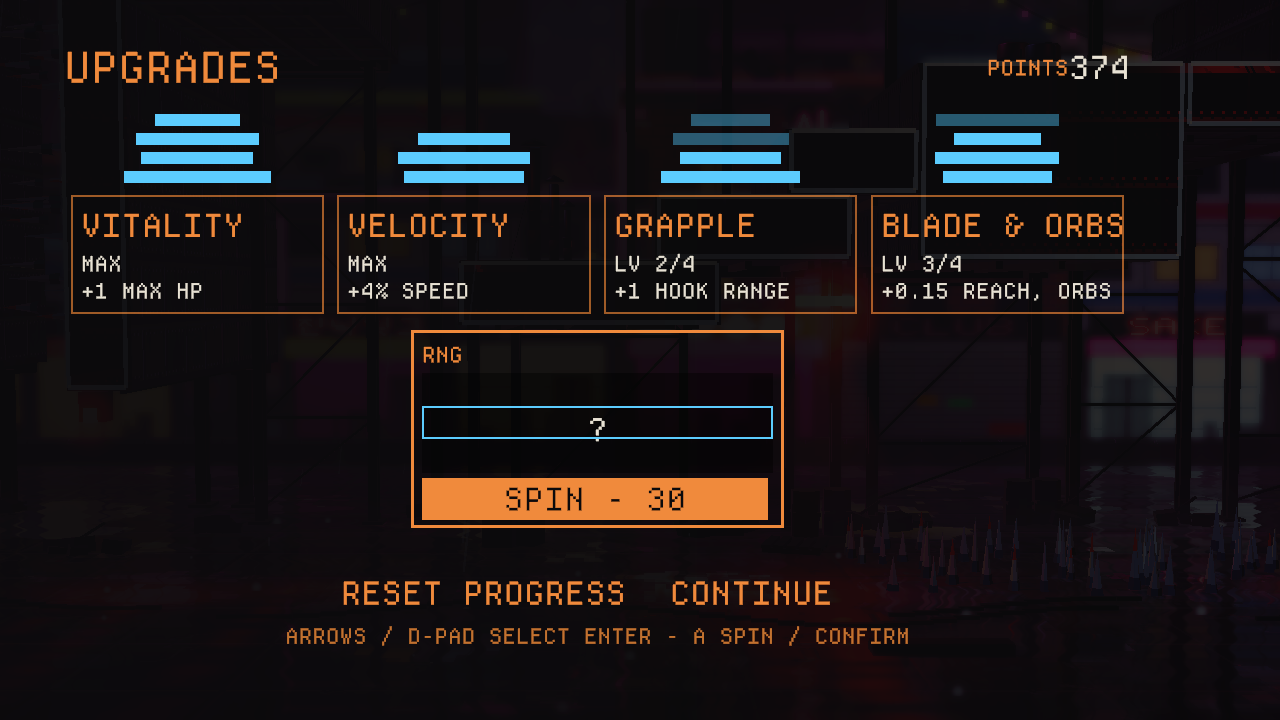
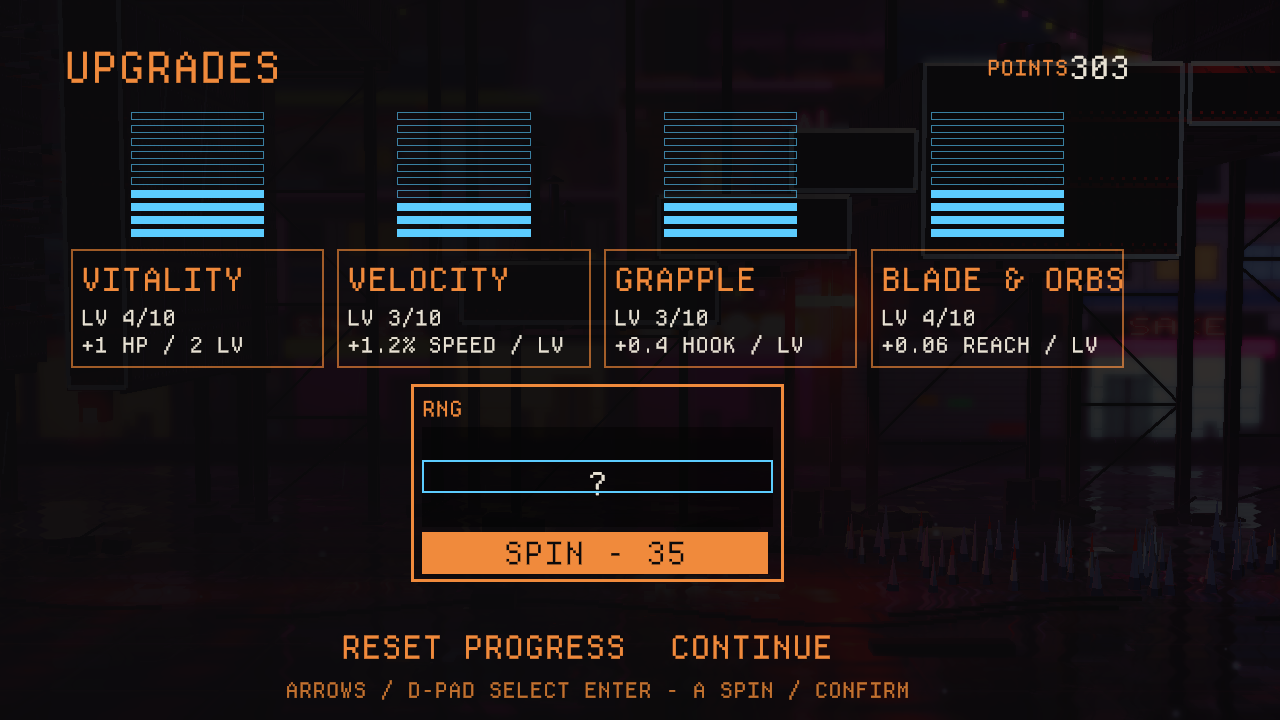
Upgrades: 10 levels each, clean uniform bars
- Every upgrade has 10 levels; per-level effects scaled so the maxed totals stay
  about the same (+5 HP at one per 2 levels, +12% speed, +4 hook, +0.6 reach);
  spin price grows x1.08.
- Level bars all the same size: owned = solid neon, not owned = thin outline.

diff --git a/Assets/Scripts/Game/UpgradeScreen.cs b/Assets/Scripts/Game/UpgradeScreen.cs
@@ -36,7 +36,7 @@ namespace Redline.Game
         private static readonly Color Bone = UiTheme.Bone;
         private static readonly Color Danger = MenuKit.Danger;
         private static readonly Color Neon = new Color(0.36f, 0.8f, 1f);
-        private static readonly Color NeonOff = new Color(0.36f, 0.8f, 1f, 0.16f);
+        private static readonly Color NeonOff = new Color(0.36f, 0.8f, 1f, 0.35f);
 
         private const int SpinIndex = 0;
         private const int ResetIndex = 1;
@@ -352,7 +352,10 @@ namespace Redline.Game
                 {
                     bool on = b < level;
                     bool fresh = wonCol && b == level - 1;
-                    bars[b].style.backgroundColor = fresh ? (pulse ? Color.white : Neon) : on ? Neon : NeonOff;
+                    // owned = solid neon bar, not owned = an empty outline (reads at a glance)
+                    var col = fresh ? (pulse ? Color.white : Neon) : Neon;
+                    bars[b].style.backgroundColor = on ? col : Color.clear;
+                    MenuKit.Border(bars[b], 2f, on ? col : NeonOff);
                 }
                 MenuKit.Border(_colBox[i], 3f, wonCol ? (pulse ? Color.white : Neon) : UiTheme.Faint);
             }
@@ -363,10 +366,10 @@ namespace Redline.Game
             var c = _store.Config;
             switch (kind)
             {
-                case UpgradeKind.MaxHp: return "+" + c.maxHpPerLevel + " MAX HP";
-                case UpgradeKind.Speed: return "+" + Pct(c.speedMultiplierPerLevel) + " SPEED";
-                case UpgradeKind.Hook: return "+" + Num(c.hookRangePerLevel) + " HOOK RANGE";
-                case UpgradeKind.SwordAndOrbs: return "+" + Num(c.attackRangePerLevel) + " REACH, ORBS";
+                case UpgradeKind.MaxHp: return "+" + c.maxHpPerLevel + " HP / " + Mathf.Max(1, c.maxHpLevelsPerHp) + " LV";
+                case UpgradeKind.Speed: return "+" + (c.speedMultiplierPerLevel * 100f).ToString("0.#", CultureInfo.InvariantCulture) + "% SPEED / LV";
+                case UpgradeKind.Hook: return "+" + Num(c.hookRangePerLevel) + " HOOK / LV";
+                case UpgradeKind.SwordAndOrbs: return "+" + Num(c.attackRangePerLevel) + " REACH / LV";
                 default: return "";
             }
         }
@@ -415,7 +418,6 @@ namespace Redline.Game
             cols.style.marginTop = 4f * MenuKit.T;
             cols.style.flexShrink = 0;
             page.Add(cols);
-            float[] wobble = { 1f, 0.82f, 0.95f, 0.74f, 0.9f, 0.7f };
             for (int i = 0; i < UpgradeState.Kinds.Length; i++)
             {
                 var kind = UpgradeState.Kinds[i];
@@ -431,9 +433,9 @@ namespace Redline.Game
                 for (int b = 0; b < max; b++)
                 {
                     var bar = new VisualElement { pickingMode = PickingMode.Ignore };
-                    bar.style.height = 18f;
-                    bar.style.width = 220f * wobble[(b + i) % wobble.Length] - 12f * b;
-                    bar.style.marginTop = 10f;
+                    bar.style.height = 12f;
+                    bar.style.width = 200f;                                  // every bar the same: clean
+                    bar.style.marginTop = 7f;
                     bar.style.flexShrink = 0;
                     MenuKit.Round(bar, 0);
                     stack.Add(bar);

diff --git a/Assets/Scripts/Core/Upgrades.cs b/Assets/Scripts/Core/Upgrades.cs
@@ -66,14 +66,16 @@ namespace Redline.Core
         public int[] pointsForHighestTier = { 0, 5, 15 };
 
         // --- MaxHp ---
-        public int maxHpMaxLevel = 4;
+        public int maxHpMaxLevel = 10;
         public int maxHpBaseCost = 40;
         public float maxHpCostGrowth = 1.6f;
         /// <summary>Max HP added per level.</summary>
         public int maxHpPerLevel = 1;
+        /// <summary>Levels per maxHpPerLevel step: 2 = +1 max HP every second level.</summary>
+        public int maxHpLevelsPerHp = 2;
 
         // --- Speed ---
-        public int speedMaxLevel = 3;
+        public int speedMaxLevel = 10;
         public int speedBaseCost = 50;
         public float speedCostGrowth = 1.7f;
         /// <summary>
@@ -81,31 +83,31 @@ namespace Redline.Core
         /// runSpeed * (1 + max bonus) + slideBoost below tier3Speed: tier 3 stays earned
         /// (<see cref="ValidateAgainst"/> checks it).
         /// </summary>
-        public float speedMultiplierPerLevel = 0.04f;
+        public float speedMultiplierPerLevel = 0.012f;
 
         // --- Hook ---
-        public int hookMaxLevel = 4;
+        public int hookMaxLevel = 10;
         public int hookBaseCost = 35;
         public float hookCostGrowth = 1.6f;
         /// <summary>Hook range added per level (tiles).</summary>
-        public float hookRangePerLevel = 1f;
+        public float hookRangePerLevel = 0.4f;
         /// <summary>Release fling boost (hookReleaseBoost) added per level.</summary>
-        public float hookReleaseBoostPerLevel = 1f;
+        public float hookReleaseBoostPerLevel = 0.4f;
 
         // --- SwordAndOrbs ---
-        public int swordMaxLevel = 4;
+        public int swordMaxLevel = 10;
         public int swordBaseCost = 45;
         public float swordCostGrowth = 1.6f;
         /// <summary>Sword reach (attackRange) added per level (tiles).</summary>
-        public float attackRangePerLevel = 0.15f;
+        public float attackRangePerLevel = 0.06f;
         /// <summary>Added to every enemy's orb drop chance per level (capped at 1).</summary>
-        public float orbChancePerLevel = 0.03f;
+        public float orbChancePerLevel = 0.012f;
         /// <summary>Added to the orb buff duration multiplier per level (0.15 = +15% Speed and Hook orb time).</summary>
-        public float orbDurationPerLevel = 0.15f;
+        public float orbDurationPerLevel = 0.06f;
 
         // --- Random upgrade (spin): pay, a random not-maxed upgrade gains a level; the price grows per spin ---
         public int spinBaseCost = 30;
-        public float spinCostGrowth = 1.35f;
+        public float spinCostGrowth = 1.08f;
 
         /// <summary>Price of the next random upgrade after <paramref name="spins"/> spins.</summary>
         public int SpinCost(int spins)
@@ -357,7 +359,7 @@ namespace Redline.Core
             if (state == null) return c;
 
             int hp = state.LevelOf(UpgradeKind.MaxHp);
-            c.playerMaxHp += cfg.maxHpPerLevel * hp;
+            c.playerMaxHp += cfg.maxHpPerLevel * (hp / Math.Max(1, cfg.maxHpLevelsPerHp));
 
             int speed = state.LevelOf(UpgradeKind.Speed);
             float speedMul = 1f + cfg.speedMultiplierPerLevel * speed;

diff --git a/Assets/Tests/EditMode/UpgradeTests.cs b/Assets/Tests/EditMode/UpgradeTests.cs
@@ -200,7 +200,7 @@ namespace Redline.Tests
                 (UpgradeKind.Hook, 1), (UpgradeKind.SwordAndOrbs, 4));
             var c = Upgrades.Apply(_base, _ucfg, s);
 
-            Assert.AreEqual(_base.playerMaxHp + 2 * _ucfg.maxHpPerLevel, c.playerMaxHp);
+            Assert.AreEqual(_base.playerMaxHp + 2 / _ucfg.maxHpLevelsPerHp * _ucfg.maxHpPerLevel, c.playerMaxHp);
             float sm = 1f + 3 * _ucfg.speedMultiplierPerLevel;
             Assert.AreEqual(_base.runSpeed * sm, c.runSpeed, 1e-4f);
             Assert.AreEqual(_base.maxSpeed * sm, c.maxSpeed, 1e-4f);
@@ -247,7 +247,7 @@ namespace Redline.Tests
         {
             var s = StateWith(_ucfg, 0, (UpgradeKind.MaxHp, 3));
             var sim = new RedlineSim(Upgrades.Apply(NoWaves(), _ucfg, s), Box(30, 10));
-            Assert.AreEqual(new RedlineConfig().playerMaxHp + 3 * _ucfg.maxHpPerLevel, sim.Player.Hp);
+            Assert.AreEqual(new RedlineConfig().playerMaxHp + 3 / _ucfg.maxHpLevelsPerHp * _ucfg.maxHpPerLevel, sim.Player.Hp);
         }
 
         // ------------------------------------------------------------------ save
